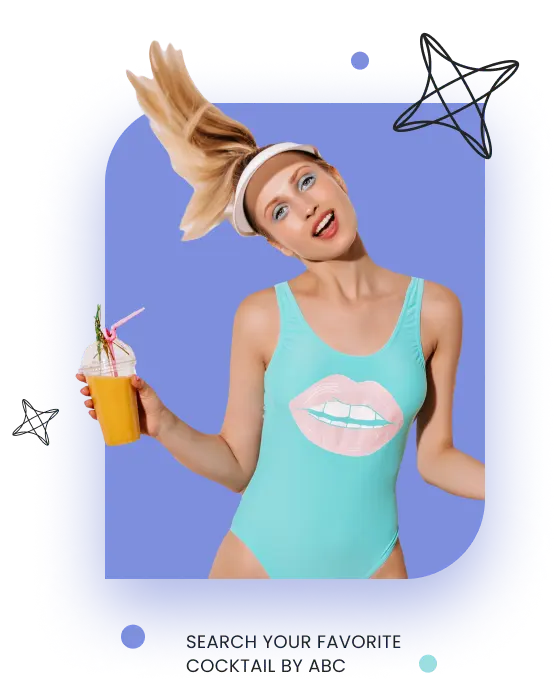
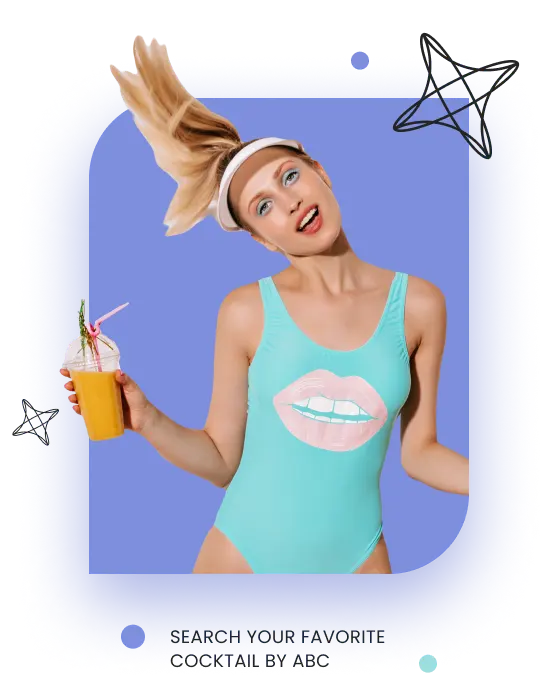
fix img hero and add transition body bg

diff --git a/src/css/body.css b/src/css/body.css
@@ -2,9 +2,11 @@ body {
   background-image: url('../img/body-background/bg-light-mobile.webp');
   background-repeat: no-repeat;
   background-size: cover;
+  transition: background-image 1s ease-in-out;
 }
 body.dark {
   background-image: url('../img/body-background/bg-dark-mobile.webp');
+  transition: background-image 1s ease-in-out;
 }
 
 @media screen and (min-width: 768px) {
